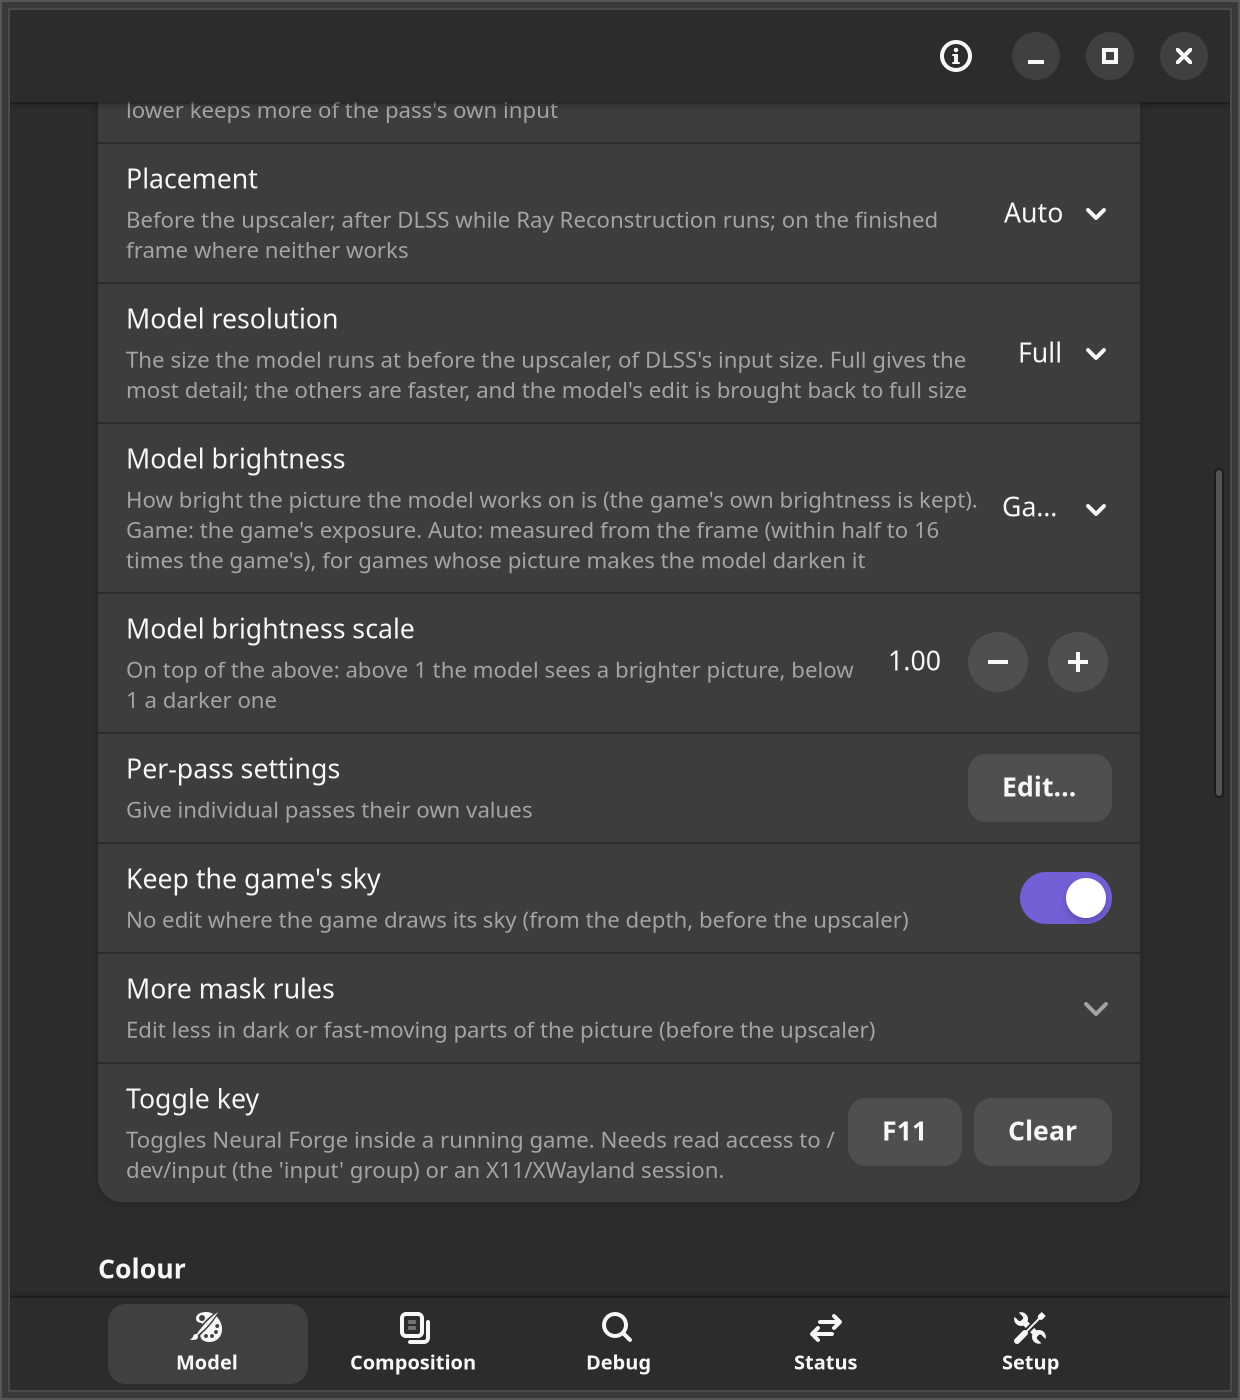
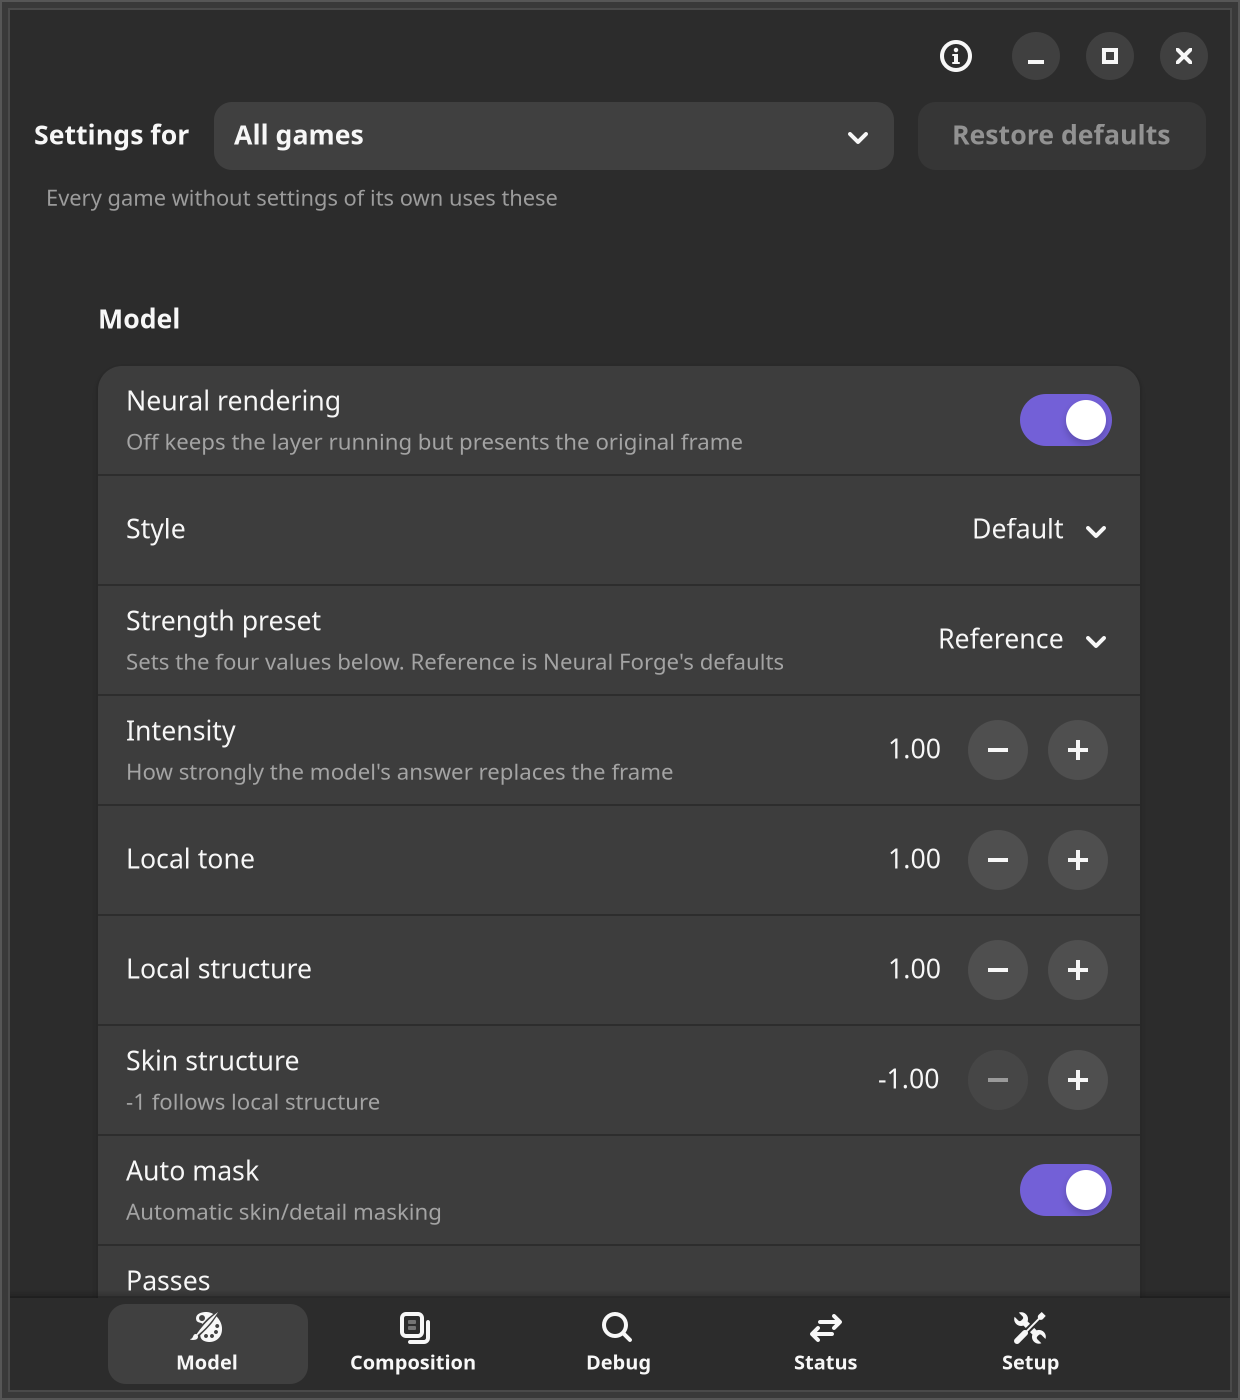
README: screenshots of 4.1.0, known issues users can act on
The Model, Setup, Status (a running game) and per-pass screenshots are retaken from this
version. Known issues and the user guide's list keep only what affects users, with what to do.

diff --git a/docs/USER_GUIDE.md b/docs/USER_GUIDE.md
@@ -487,24 +487,21 @@ the games that used one).
 
 ## More known issues
 
-- **Each DLSS game needs a test run before it is claimed:** engines hand DLSS its inputs in
-  different ways, and several broke an assumption the first time. See [Tested games](#tested-games).
-- **The model after DLSS is tested in three games** (Crimson Desert and Hogwarts Legacy with Ray
-  Reconstruction; Cyberpunk 2077 with and without it). Where a game's DLSS output cannot be held, the model runs on the finished frame, at a
-  much lower frame rate (14 against 70 fps shown in Crimson Desert at 4K with Ray Reconstruction).
-- **Hogwarts Legacy with Ray Reconstruction:** its Ray Reconstruction does not say what unit its motion vectors
-  are in (Cyberpunk 2077's does), so the model after DLSS takes them as render pixels, as their size suggests, or
-  in the unit Super Resolution gave if it ran earlier in the session. Neither has been checked against the picture
-  in this game: if the model's history drags or smears behind moving things there, set Placement to Finished frame.
-- **HDR on the finished frame:** HDR10 is handled (above) and tested in Crimson Desert; float16
-  (scRGB) swapchains are presented untouched, and HDR frames cannot be captured.
+- **A DLSS game that is not in [Tested games](#tested-games)** usually works, because Neural Forge reads what the
+  game hands DLSS. If the Status tab's Model placement line says DLSS's input was found but not held, the model runs
+  on the finished frame instead; attach **Save report** to an issue so the game can be added.
+- **With Ray Reconstruction, where DLSS's output cannot be held,** the model runs on the finished frame at the
+  output size, which costs far more frame rate (14 against 70 fps shown in Crimson Desert at 4K).
+- **Hogwarts Legacy with Ray Reconstruction:** its Ray Reconstruction does not say what unit its motion vectors are
+  in, so the model after DLSS takes them as render pixels. If the model's history drags or smears behind moving
+  things there, set Placement to Finished frame.
+- **HDR on the finished frame:** HDR10 is handled (above); float16 (scRGB) swapchains are presented untouched, and
+  HDR frames cannot be captured.
 - **Comparing with NVIDIA's own DLSS 5 in a game that ships it:** Proton's dxvk-nvapi 0.9.3 or newer passes
   NVIDIA's driver override for it, so the launch options
   `DXVK_NVAPI_DRS_NGX_DLSS_NR_OVERRIDE=on DXVK_NVAPI_DRS_NGX_DLSS_NR_OVERRIDE_RENDER_PRESET_SELECTION=render_preset_a`
   (presets `a` to `d`) pick which of NVIDIA's presets the game runs. They do not change Neural Forge. Switch
   the game's own DLSS 5 off while Neural Forge runs, or the frame gets both.
-- **Not carried over from upstream DLSS5VKLayer:** see
-  [UPSTREAM_PARITY.md](UPSTREAM_PARITY.md).
 
 ## More troubleshooting
 

diff --git a/README.md b/README.md
@@ -9,7 +9,7 @@ NVIDIA's own runtime. Read [Legal](#legal) before you use it.
 
 | Model settings | Setup | Status |
 |---|---|---|
-| ![Model tab with the switch, style, strength, passes, placement and colour settings](screenshots/settings.png) | ![Setup tab with the model, the network choice and the Steam games with a switch each](screenshots/setup.png) | ![Status tab with the frame rate graph, the model placement and the HDR verdict](screenshots/status.png) |
+| ![Model tab with the per-game Settings for bar, the switch, style, strength preset and its values](screenshots/settings.png) | ![Setup tab with the model, the network choice and the Steam games with a switch each and where each was tested](screenshots/setup.png) | ![Status tab while Hogwarts Legacy runs: the model before the upscaler, the frame rate and the graph of frame time and the model's GPU time](screenshots/status.png) |
 
 ## Requirements
 
@@ -103,11 +103,8 @@ More: [docs/USER_GUIDE.md](docs/USER_GUIDE.md#more-known-issues).
 
 ## Known issues
 
-- **GTA V Enhanced sometimes crashes during "Game Init".** A bug in the game; relaunch.
-- **The game's DLSS Frame Generation does not always switch on**, with or without Neural Forge. In
-  GTA V Enhanced, set `FrameLimit` 120 in its settings.xml and it stays on.
-- **At 4K a 12 GB card is at its video memory limit**, most of all with Ray Reconstruction.
-- **Unreal Engine 5 games are only partly tested.**
+- **Games that change their render resolution as they run** (dynamic resolution) make the model start its
+  history again at each new size, so the picture can lose some steadiness for a moment after a change.
 - **On the finished frame, Find the HUD can treat a first-person weapon as HUD.** Switch it off in
   the Model tab where that shows.
 
